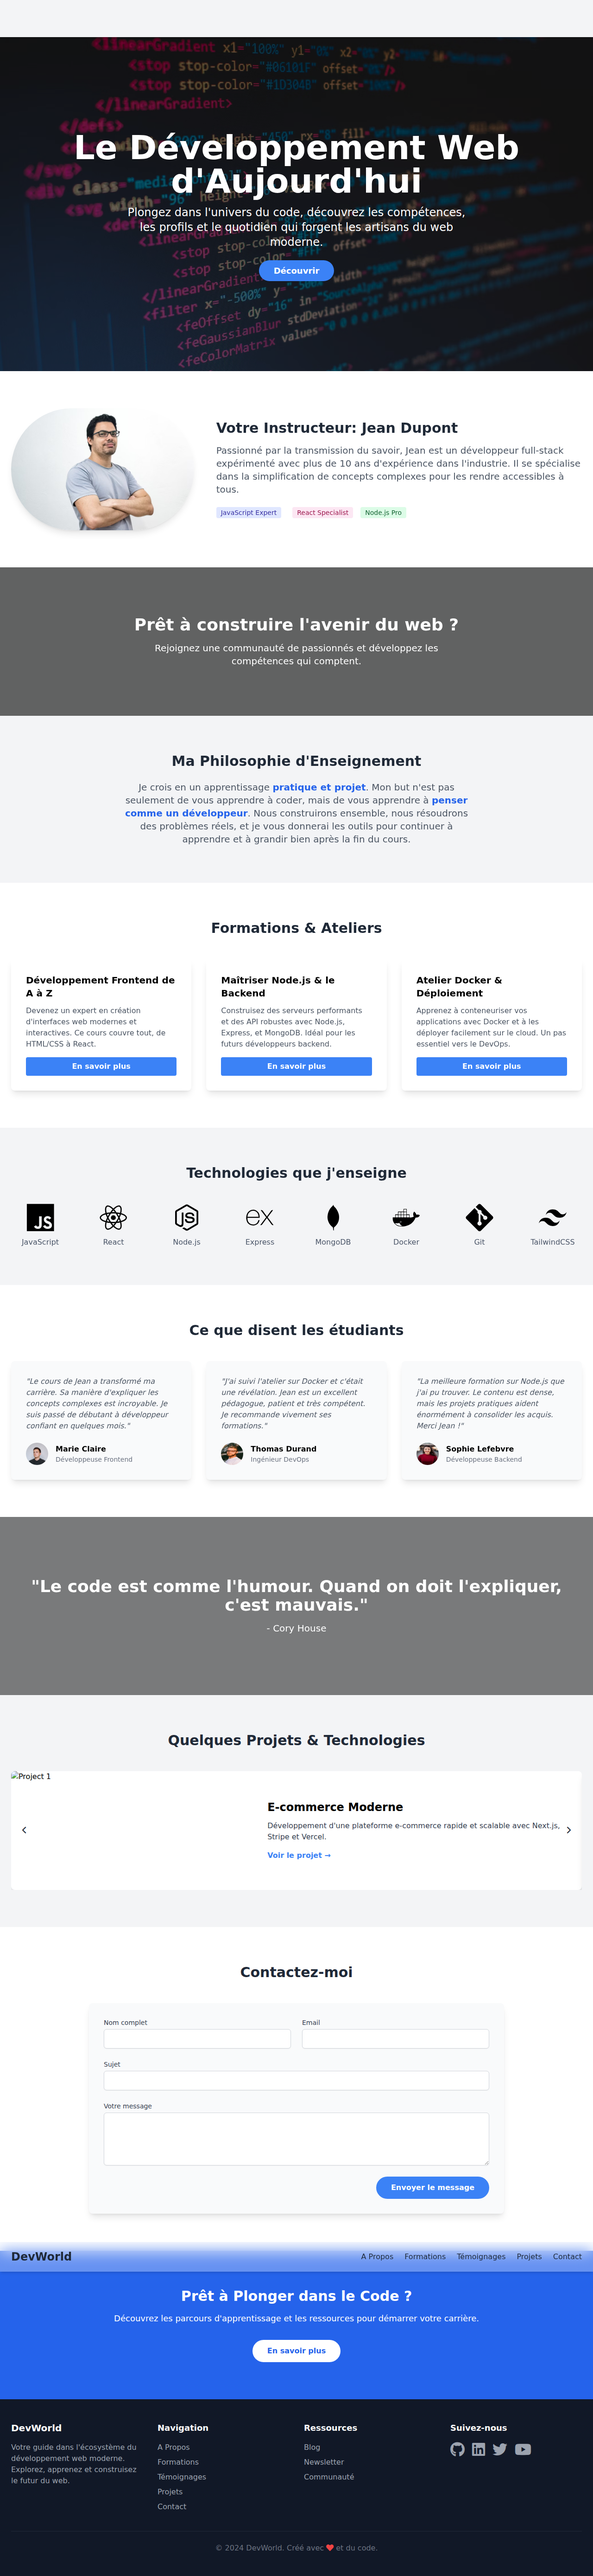
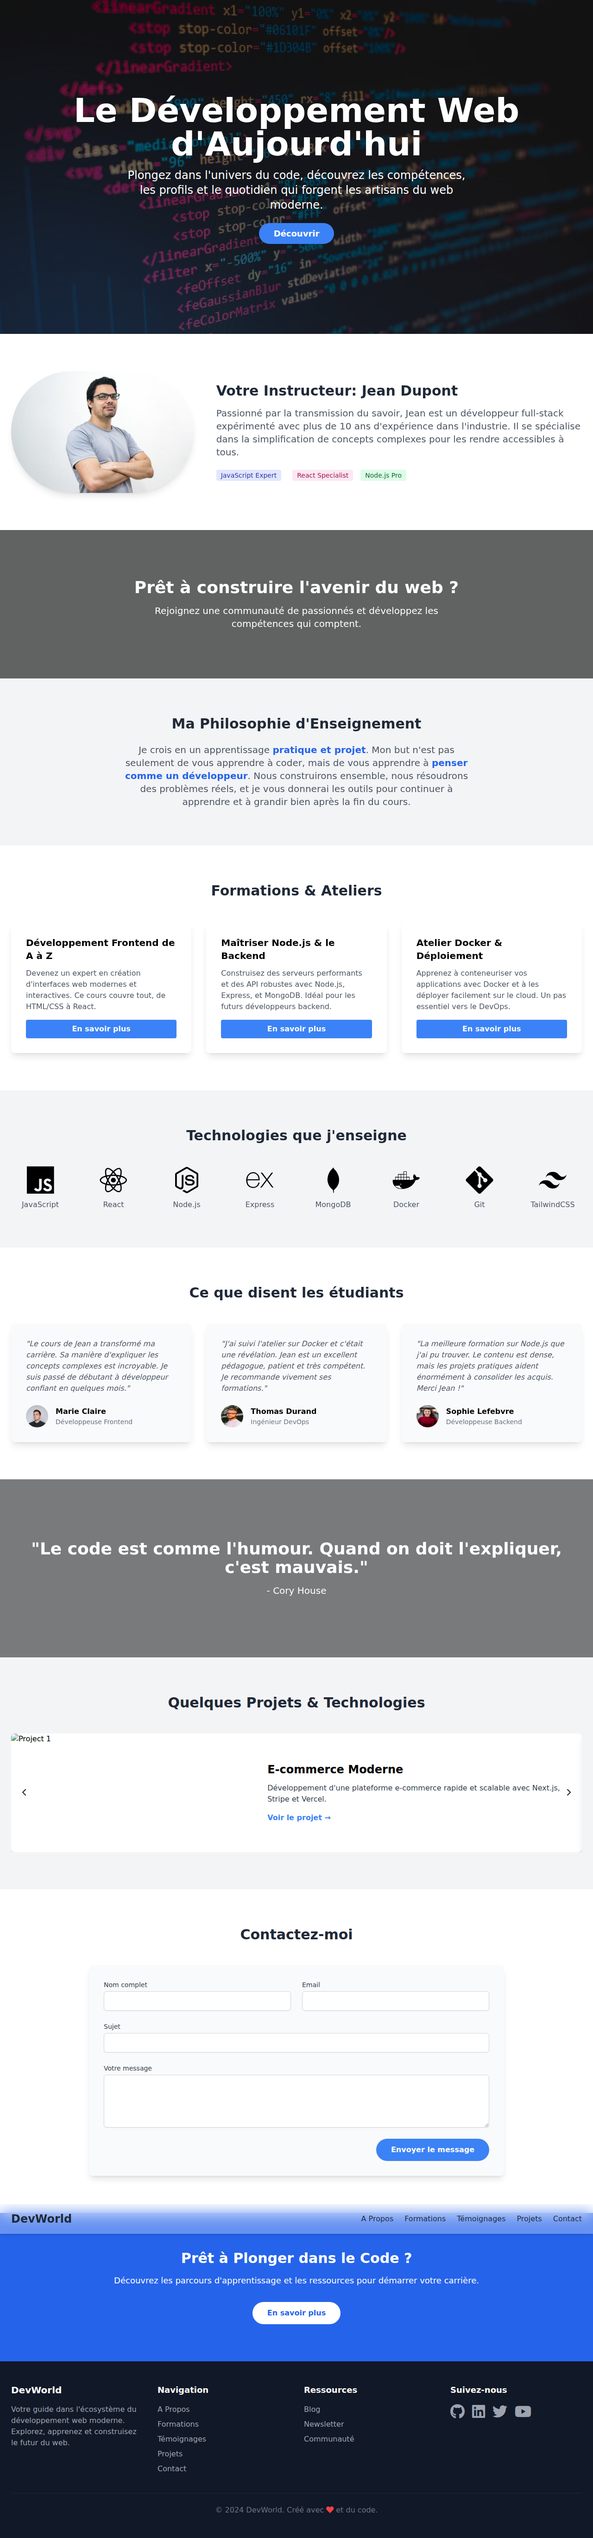
fix: Adjust hero layout and improve scroll behavior
This commit addresses two user requests to improve the landing page's user experience:

1.  The hero section has been adjusted to extend to the top of the page, sitting behind the transparent navigation bar. This was achieved by removing the top padding from the `main` element.
2.  The CSS has been updated to improve scroll behavior. The `scroll-behavior: smooth` property has been moved from the `body` to the `html` element for better consistency and performance.

diff --git a/index.html b/index.html
@@ -39,7 +39,7 @@
     </header>
 
     <!-- Hero Section -->
-    <main class="pt-20">
+    <main>
         <section id="hero" class="relative h-screen flex items-center justify-center text-white">
             <div class="absolute inset-0 bg-cover bg-center" style="background-image: url('https://images.unsplash.com/photo-1542831371-29b0f74f9713?q=80&w=2070&auto=format&fit=crop&ixlib=rb-4.0.3&ixid=M3wxMjA3fDB8MHxwaG90by1wYWdlfHx8fGVufDB8fHx8fA%3D%3D');"></div>
             <div class="absolute inset-0 bg-black opacity-50"></div>

diff --git a/css/style.css b/css/style.css
@@ -1,6 +1,6 @@
 @import url('https://cdnjs.cloudflare.com/ajax/libs/font-awesome/6.0.0-beta3/css/all.min.css');
 
-body {
+html {
     scroll-behavior: smooth;
 }
 
